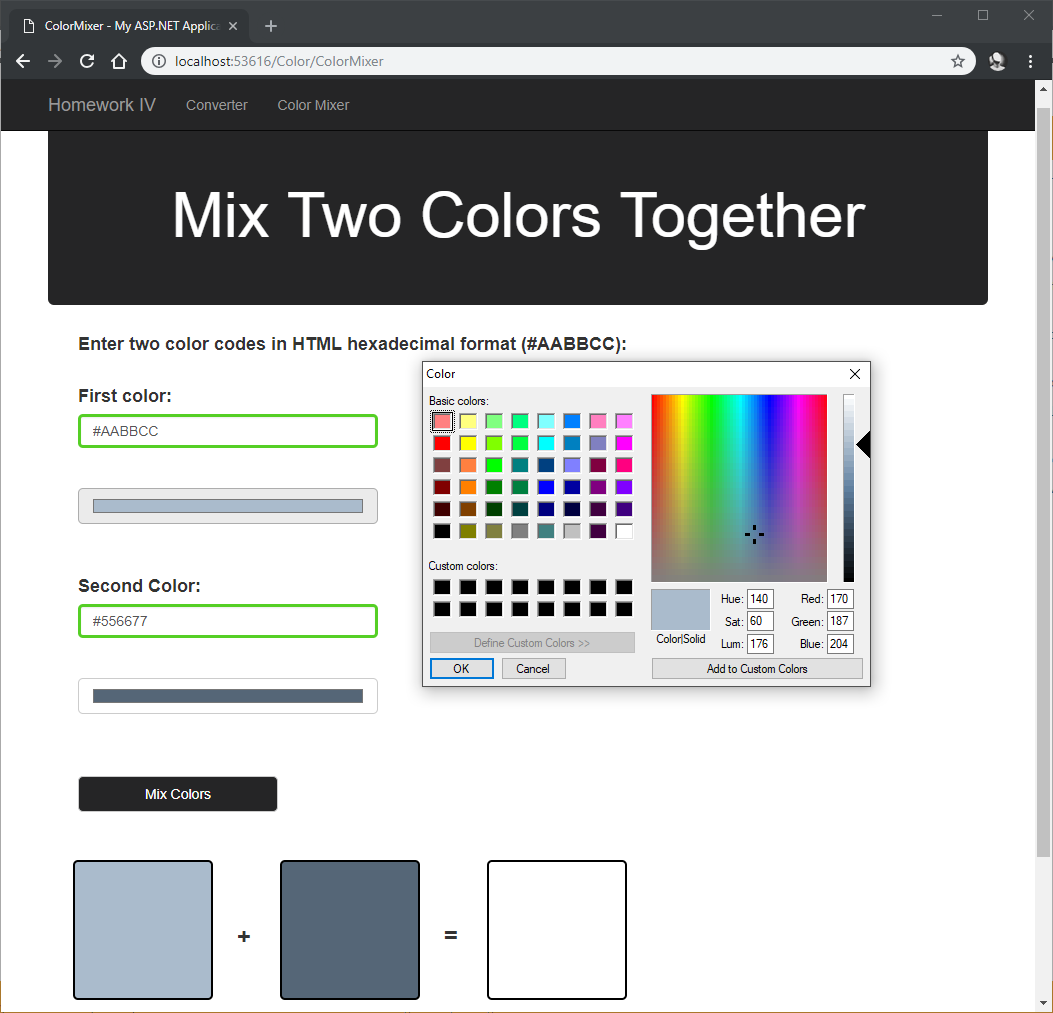
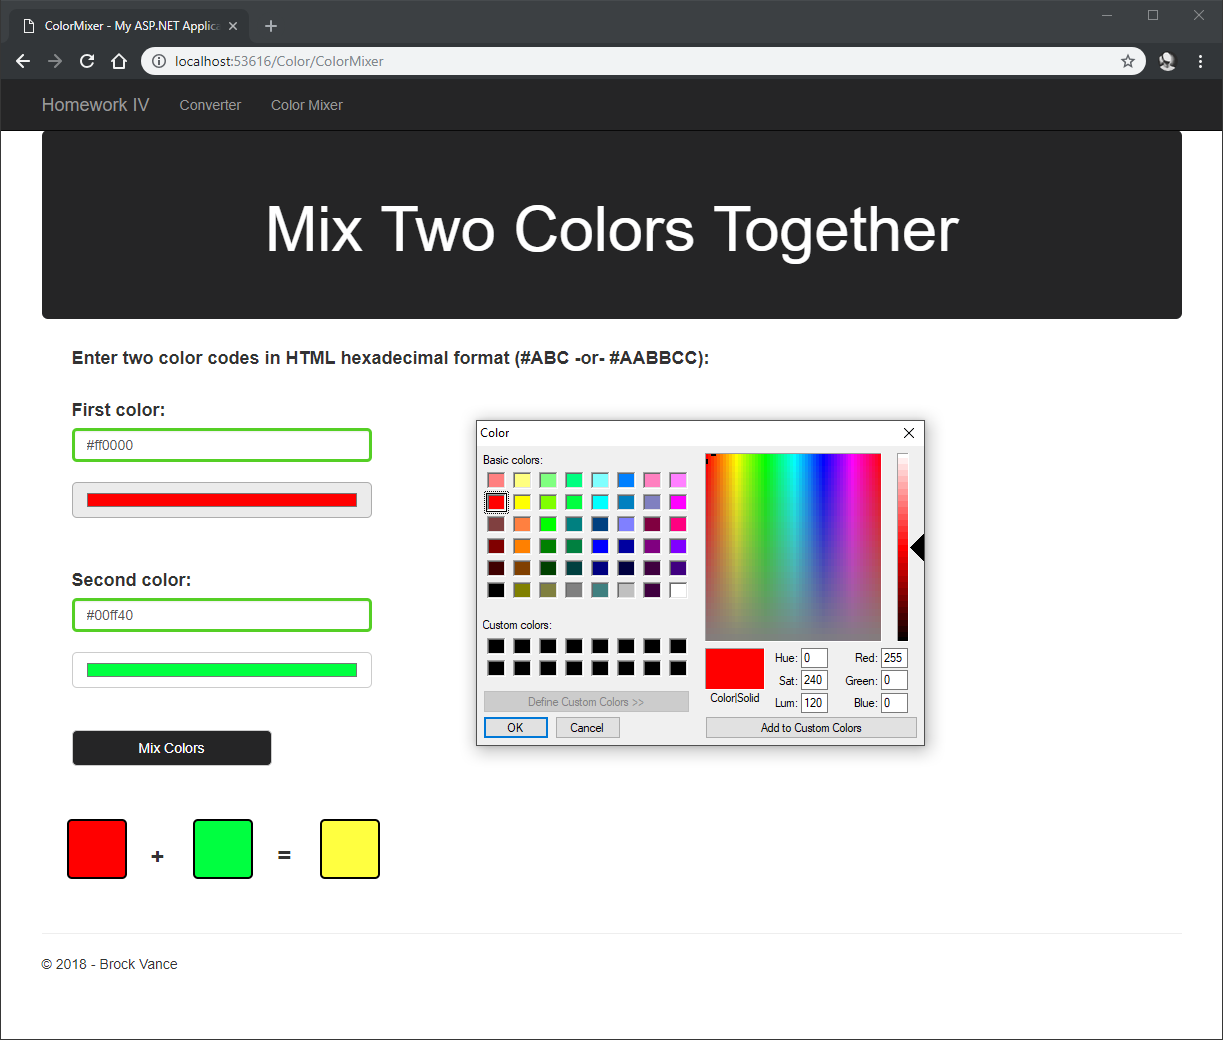
Updated page looks and images.

diff --git a/CS460/HWK4/Homework4/Homework4/Content/Site.css b/CS460/HWK4/Homework4/Homework4/Content/Site.css
@@ -1,68 +1,68 @@
-/* Set the padding for the body */
+/* Body */
 body {
     padding-top: 50px;
     padding-bottom: 20px;
 }
 
-/* Set padding to keep content from hitting the edges */
+/* Body content */
 .body-content {
     padding-left: 15px;
     padding-right: 15px;
 }
 
-/* Set width on the form input elements since they're 100% wide by default */
+/* Form input elements */
 select,
 textarea {
     max-width: 280px;
 }
 
-/* Set the style and appearance for h1 elements */
+/* H1 elements */
 h1 {
     text-align: center;
 }
 
-/* Set the style and appearance for h4 elements */
+/* H4 elements */
 h4 {
     font-weight: bolder;
     margin-left: 30px;
 }
 
-/* Set the style and appearance for label elements */
+/* Label elements */
 label {
     font-size: 18px;
     margin-top: 20px;
     float: left;
 }
 
-/* Set the style and appearance for the lead class elements */
+/* Lead class */
 .lead {
     text-align: center;
 }
 
-/* Set the background and text colors for the page header */
+/* Jumbotron class */
 .jumbotron {
     background: #252526;
     color: #ffffff;
 }
 
-/* Set the background and text colors for the navigation bar */
+/* Navbar class */
 .navbar {
     background: #252526;
     color: #ffffff;
 }
 
-/* Set the width and margin for columns */
+/* Boxes class */
 .boxes {
     text-align: center;
 }
 
-/* Set the width and margin for columns */
+/* Box-Containers class */
 .box-container {
     float: none;
     display: inline-block;
 }
 
-/* Set the style and appearance for the buttons on the main page */
+/* "Converter" and "Color Mixer" buttons */
 .btnGoToPages {
     border-radius: 5px;
     border-style: solid;
@@ -81,29 +81,29 @@ label {
     transform: translateY(-50%);
 }
 
-/* Set style and appearance for the convert button */
+    /* "Converter" and "Color Mixer" buttons continued... */
     .btnGoToPages:hover {
         background: #515151;
         color: #ffffff;
     }
 
-/* Set style and appearance for the convert button when clicked */
+/* "Converter" and "Color Mixer" buttons continued... */
     .btnGoToPages:active {
         background: #252526;
         color: #ffffff;
     }
 
-/* Set the style and appearance of the repository button in the page header */
+/* "View Repository" button */
 #btnViewRepo {
     margin: 0 auto;
 }
 
-/* Set style and appearance for the user input field */
+/* User input field */
 #userInput {
     border-radius: 5px;
     border-style: solid;
     margin-top: 20px;
-    margin-bottom: 20px;
+    margin-bottom: 40px;
     padding: 5px;
     width: 280px;
     -moz-appearance: none;
@@ -115,7 +115,7 @@ label {
     transform: translateY(-50%);
 }
 
-/* Set style and appearance for the convert button */
+/* Convert button */
 #btnConvert {
     border-radius: 5px;
     border-style: solid;
@@ -133,19 +133,19 @@ label {
     transform: translateY(-50%);
 }
 
-    /* Set style and appearance for the convert button */
+    /* Convert button continued... */
     #btnConvert:hover {
         background: #515151;
         color: #ffffff;
     }
 
-    /* Set style and appearance for the convert button when clicked */
+    /* Convert button continued... */
     #btnConvert:active {
         background: #252526;
         color: #ffffff;
     }
 
-/* Set the style and appearance for the group legends */
+/* Legends */
 legend {
     background: #252526;
     color: #ffffff;
@@ -153,7 +153,7 @@ legend {
     text-align: center;
 }
 
-/* Set the style and appearance of the radio buttons */
+/* Radio buttons */
 #radioButtons {
     text-align: justify;
     vertical-align: top;
@@ -179,25 +179,26 @@ input[type="radio"] {
     input[type="radio"] + .radioLabel {
         margin-left: 10px;
     }
+
         /* Radio buttons continued... */
         input[type="radio"] + .radioLabel:after {
             content: '';
             display: block;
         }
 
-/* Set the style and appearance for the label that holds the conversion results */
+/* Conversion results label */
 #conversionResults {
     font-size: 18px;
     color: #ff0000;
     vertical-align: middle;
 }
 
-/* Set the style and appearance for the submit colors button */
+/* Submit colors button */
 #btnSubmitColors {
     border-radius: 5px;
     border-style: solid;
-    margin-top: 50px;
-    margin-bottom: 30px;
+    margin-top: 30px;
+    margin-bottom: 35px;
     margin-left: 15px;
     padding: 7px;
     background: #252526;
@@ -225,13 +226,14 @@ input[type="radio"] {
         color: #ffffff;
     }
 
-/* Set the style and appearance for the textboxes used to collect the color codes */
+/* Color code textboxess */
 .form-control {
     margin-top: 10px;
-    margin-bottom: 30px;
+    margin-bottom: 10px;
     border-radius: 5px;
     border-style: solid;
     position: relative;
+    max-width: 300px;
 }
 
     /* Color code textboxes continued... */
@@ -240,35 +242,34 @@ input[type="radio"] {
         border-width: 3px;
     }
 
-/* Set the style and appearance for the labels between the color boxes */
+/* Labels between the color boxes */
 .colorBoxLabel {
     font-weight: bolder;
     font-size: 24px;
-    padding-bottom: 100px;
-    margin-bottom: 40px;
+    padding-bottom: 20px;
+    margin-bottom: 20px;
     margin-left: 20px;
     display: inline-block;
-    vertical-align: middle;
+    vertical-align: top;
     float: none;
 }
 
-/* Set the style and appearance for the color boxes */
+/* Color boxes */
 .colorBox {
-    width: 140px;
-    max-width: 140px;
-    height: 140px;
-    max-height: 140px;
+    width: 60px;
+    height: 60px;
     margin-left: 25px;
     border: 2px solid #000000;
     border-radius: 5px;
     display: inline-block;
 }
 
-/* Set the style and appearance for the color picker inputs */
+/* Color picker buttons */
 input[type="color"] {
     margin-top: 10px;
     margin-bottom: 30px;
     border-radius: 5px;
     border-style: solid;
     height: 36px;
+    width: 300px;
 }

diff --git a/CS460/HWK4/Homework4/Homework4/Properties/Settings.Designer.cs b/CS460/HWK4/Homework4/Homework4/Properties/Settings.Designer.cs
@@ -1,0 +1,62 @@
+//------------------------------------------------------------------------------
+// <auto-generated>
+//     This code was generated by a tool.
+//     Runtime Version:4.0.30319.42000
+//
+//     Changes to this file may cause incorrect behavior and will be lost if
+//     the code is regenerated.
+// </auto-generated>
+//------------------------------------------------------------------------------
+
+namespace Homework4.Properties {
+    
+    
+    [global::System.Runtime.CompilerServices.CompilerGeneratedAttribute()]
+    [global::System.CodeDom.Compiler.GeneratedCodeAttribute("Microsoft.VisualStudio.Editors.SettingsDesigner.SettingsSingleFileGenerator", "15.8.0.0")]
+    internal sealed partial class Settings : global::System.Configuration.ApplicationSettingsBase {
+        
+        private static Settings defaultInstance = ((Settings)(global::System.Configuration.ApplicationSettingsBase.Synchronized(new Settings())));
+        
+        public static Settings Default {
+            get {
+                return defaultInstance;
+            }
+        }
+        
+        [global::System.Configuration.ApplicationScopedSettingAttribute()]
+        [global::System.Diagnostics.DebuggerNonUserCodeAttribute()]
+        [global::System.Configuration.DefaultSettingValueAttribute("1609344")]
+        public double MILLIMETERS_PER_MILE {
+            get {
+                return ((double)(this["MILLIMETERS_PER_MILE"]));
+            }
+        }
+        
+        [global::System.Configuration.ApplicationScopedSettingAttribute()]
+        [global::System.Diagnostics.DebuggerNonUserCodeAttribute()]
+        [global::System.Configuration.DefaultSettingValueAttribute("160934.4")]
+        public double CENTIMETERS_PER_MILE {
+            get {
+                return ((double)(this["CENTIMETERS_PER_MILE"]));
+            }
+        }
+        
+        [global::System.Configuration.ApplicationScopedSettingAttribute()]
+        [global::System.Diagnostics.DebuggerNonUserCodeAttribute()]
+        [global::System.Configuration.DefaultSettingValueAttribute("1609.34")]
+        public double METERS_PER_MILE {
+            get {
+                return ((double)(this["METERS_PER_MILE"]));
+            }
+        }
+        
+        [global::System.Configuration.ApplicationScopedSettingAttribute()]
+        [global::System.Diagnostics.DebuggerNonUserCodeAttribute()]
+        [global::System.Configuration.DefaultSettingValueAttribute("1.60934")]
+        public double KILOMETERS_PER_MILE {
+            get {
+                return ((double)(this["KILOMETERS_PER_MILE"]));
+            }
+        }
+    }
+}

diff --git a/CS460/HWK4/Homework4/Homework4/Controllers/HomeController.cs b/CS460/HWK4/Homework4/Homework4/Controllers/HomeController.cs
@@ -13,7 +13,7 @@ namespace Homework4.Controllers
         {
             return View();
         }
-
+        
         /// <summary>
         /// GET for Converter.cshtml
         /// </summary>
@@ -30,17 +30,17 @@ namespace Homework4.Controllers
                 /* If we parsed it successfully, do the appropriate conversion */
                 switch (unit)
                 {
-                    case "millimeters":
-                        miles = miles * 1609344;
+                    case "millimeters":                        
+                        miles = miles * Properties.Settings.Default.MILLIMETERS_PER_MILE; ;
                         break;
                     case "centimeters":
-                        miles = miles * 160934.4;
+                        miles = miles * Properties.Settings.Default.CENTIMETERS_PER_MILE;
                         break;
                     case "meters":
-                        miles = miles * 1609.34;
+                        miles = miles * Properties.Settings.Default.METERS_PER_MILE;
                         break;
                     case "kilometers":
-                        miles = miles * 1.60934;
+                        miles = miles * Properties.Settings.Default.KILOMETERS_PER_MILE;
                         break;
                     default:
                         break;

diff --git a/CS460/HWK4/index.md b/CS460/HWK4/index.md
@@ -79,17 +79,17 @@ if (Double.TryParse(userInput, out miles))
     /* If we parsed it successfully, do the appropriate conversion */
     switch (unit)
     {
-        case "millimeters":
-            miles = miles * 1609344;
+        case "millimeters":                        
+            miles = miles * Properties.Settings.Default.MILLIMETERS_PER_MILE; ;
             break;
         case "centimeters":
-            miles = miles * 160934.4;
+            miles = miles * Properties.Settings.Default.CENTIMETERS_PER_MILE;
             break;
         case "meters":
-            miles = miles * 1609.34;
+            miles = miles * Properties.Settings.Default.METERS_PER_MILE;
             break;
         case "kilometers":
-            miles = miles * 1.60934;
+            miles = miles * Properties.Settings.Default.KILOMETERS_PER_MILE;
             break;
         default:
             break;
@@ -116,22 +116,6 @@ The first thing I needed was a place for the user to enter the color codes. I us
    id = "firstColor",
    placeholder = "#AABBCC",
    name = "firstColor",
-   pattern = "^#([A-Fa-f0-9]{6}|[A-Fa-f0-9]{3})$",
-   title = "HTML hexadecimal color code (#AABBCC)",
-   required = "required",
-   autocomplete = "off"
-})
-</div>
-
-<!-- Prompt for the second color -->
-<div>
-    @Html.Label("Second color:")
-    @Html.TextBox("secondColor", "@Request["secondColor"]", new
-{
-   @class = "form-control",
-   id = "secondColor",
-   placeholder = "#AABBCC",
-   name = "secondColor",
    pattern = "^#([A-Fa-f0-9]{6}|[A-Fa-f0-9]{3})$",
    title = "HTML hexadecimal color code (#AABBCC)",
    required = "required",
